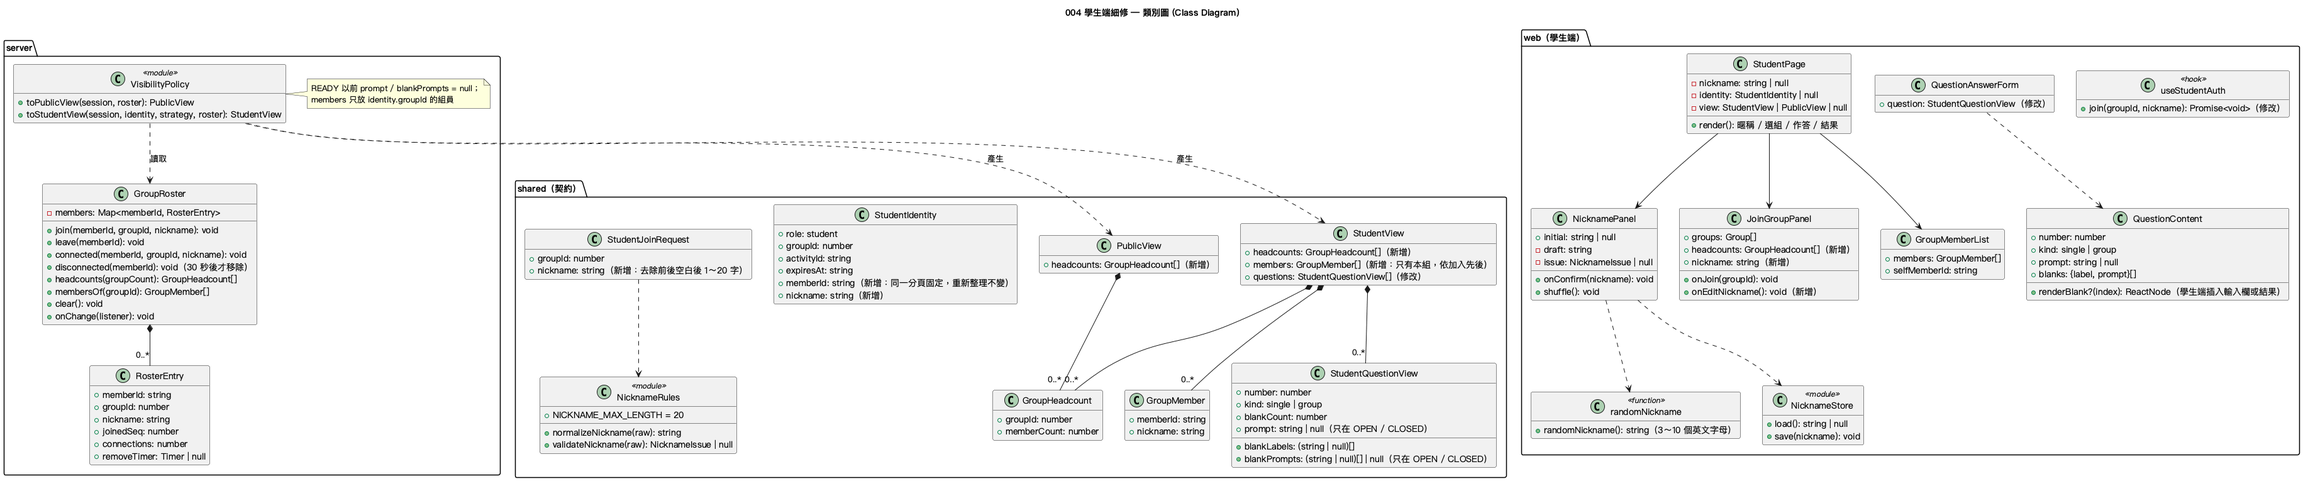
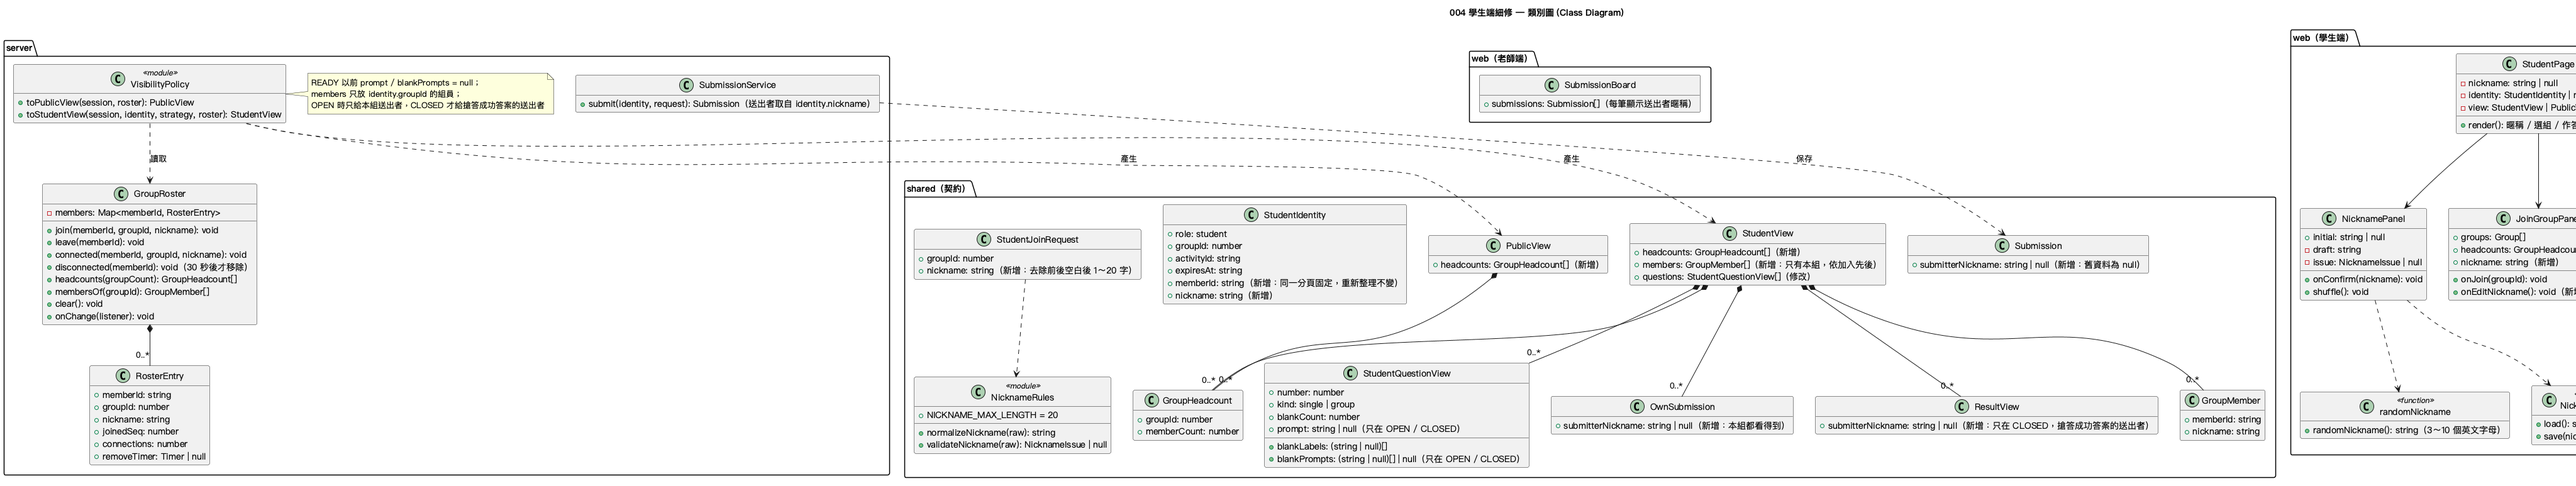
docs(004): record submitter nickname and entry clarifications
Each accepted submission keeps the submitter's nickname: teachers always
see it, group members see their own group's submitters, and other groups
see winning submitters only after the quiz closes. Opening the student URL
directly also starts at the nickname step. Diagrams updated to match.

diff --git a/specs/004-student-side-refinements/spec.md b/specs/004-student-side-refinements/spec.md
@@ -22,12 +22,14 @@
 - 選組畫面在每個組別旁顯示目前已加入的人數
 - 作答與結果畫面顯示本組成員的暱稱與人數
 - 學生端顯示每一題的題目敘述（題組含子題敘述），樣式與老師端題目預覽相同
+- 每筆送出記錄送出者的暱稱，並依角色與活動階段決定誰看得到（老師端的送出列表一併顯示送出者）
 
 **本子功能不包含**：
 
 - 學生帳號、座號、真實姓名或名單管理（暱稱只用來在同組之間辨識，可以重複）
-- 以個人為單位送出或計分（作答單位仍是組別，送出紀錄與匯出不記錄是誰送出）
-- 老師端畫面的變更（老師端不顯示學生暱稱或各組人數）
+- 以個人為單位送出或計分（作答單位仍是組別；送出者暱稱只用來顯示，不影響搶答判定與成績）
+- 老師端顯示各組人數或成員名單（老師端只多顯示每筆送出的送出者暱稱）
+- 匯出到 Guided Notes 的內容變更（匯出仍只寫入答案、組別與時間，不寫入送出者暱稱）
 - 限制每組人數、禁止重複暱稱、過濾不雅暱稱
 - 003 已完成的作答、送出、結果判定規則的變更
 
@@ -41,7 +43,13 @@
   重新整理或 30 秒內重連不重複計算也不短暫消失（FR-012）。
 - Q: 學生加入組別之後，還能不能修改暱稱？ → A: 要先離開組別（只限「待開始」）才能修改；「搶答進行中」與「已結束」時暱稱固定
   （FR-007）。
-- Q: 老師端要不要也看到各組人數或學生暱稱？ → A: 這次不做，老師端畫面不變；需要時由後續子功能再加入（範圍說明）。
+- Q: 老師端要不要也看到各組人數或學生暱稱？ → A: 這次不做，老師端不顯示各組人數與成員名單；需要時由後續子功能再加入
+  （範圍說明）。
+- Q: 同組有人送出某題後，要不要顯示「由誰送出」？ → A: 要記錄送出者暱稱。老師端隨時看得到每筆送出的送出者；學生端同組成員
+  彼此看得到本組每題的送出者；搶答進行中看不到其他組的送出者；搶答結束後，所有人都看得到每題搶答成功答案的送出者
+  （FR-023～FR-026）。
+- Q: 學生不經過首頁、直接打開學生端網址時，也要先到暱稱頁嗎？ → A: 要；只要該分頁還沒有暱稱，不論從哪裡進入學生端都先顯示
+  暱稱頁（FR-001）。
 
 ## User Scenarios & Testing *(mandatory)*
 
@@ -120,6 +128,33 @@
 
 ---
 
+### User Story 4 - 顯示每一題由誰送出 (Priority: P2)
+
+同組學生送出某題後，同組所有成員都看得到是誰送出的；老師端隨時看得到每筆送出的送出者。搶答進行中，學生看不到其他組
+的送出者；搶答結束後，結果畫面的每個搶答成功答案都標出送出者，所有人都看得到。
+
+**Why this priority**: 讓同組成員知道誰已經作答、避免重複作答，也讓老師與全班在結束後知道答案是誰送出的；但沒有這項
+資訊時，以組別為單位的搶答仍可正常進行，所以排在 P2。
+
+**Independent Test**: 第 1 組成員 Milo、Ava 與第 2 組成員 Leo 各開一個分頁。搶答進行中 Milo 送出第 1 題、Leo 送出第 1 題；
+Ava 的畫面顯示第 1 題「已送出（Milo）」，Leo 的畫面看不到 Milo；老師端第 1 題的兩筆送出分別標示 Milo、Leo。結束搶答後，
+三個學生分頁的第 1 題結果都顯示搶答成功答案與送出者「Milo」。
+
+**Acceptance Scenarios**:
+
+1. **Given** 搶答進行中，第 1 組的 Milo 送出第 3 題，**When** 同組的 Ava 檢視第 3 題，**Then** 在 1 秒內顯示「已送出（Milo）」與
+   本組答案。
+2. **Given** 搶答進行中，第 1 組已送出第 3 題，**When** 第 2 組學生檢視畫面，**Then** 看不到第 1 組的送出者，收到的資料也不包含。
+3. **Given** 任一階段有組別送出，**When** 老師檢視送出列表，**Then** 每筆送出都顯示組別、送出時間與送出者暱稱。
+4. **Given** 搶答已結束，第 3 題由第 1 組的 Milo 搶答成功，**When** 任一組的學生檢視結果，**Then** 第 3 題的搶答成功答案旁顯示
+   送出者「Milo」。
+5. **Given** 第 2 組的 Leo 也送出第 3 題但未搶到，**When** 第 2 組學生檢視結果，**Then** 第 3 題同時顯示本組答案（Leo 送出）與
+   搶答成功答案（Milo 送出）。
+6. **Given** Milo 送出後離開組別或關閉分頁，**When** 其他人檢視該題，**Then** 仍顯示送出者「Milo」。
+7. **Given** 老師匯出結果到 Guided Notes，**When** 檢視匯出的文件，**Then** 內容與 003 相同，不含送出者暱稱。
+
+---
+
 ### Edge Cases
 
 - 學生沒有修改預設暱稱就確認：以預設的隨機名字作為暱稱。
@@ -137,6 +172,9 @@
 - 老師尚未匯入題目：003 的「老師尚未匯入題目，請稍候」不變；暱稱頁仍可先完成，確認後再等待老師匯入。
 - 已取得老師身分的分頁打開學生端：003 FR-008 不變，不顯示暱稱頁與作答功能。
 - 題目敘述很長或含多行：完整顯示並保留換行，不截斷。
+- 本子功能上線前已保存的送出紀錄沒有送出者：老師端與學生端顯示該筆送出時不顯示送出者，其他內容照常顯示。
+- 同組兩位暱稱相同的學生分別送出不同題：都顯示同一個暱稱，不另外區分。
+- 送出被拒絕（例如本組已送出、搶答已結束）：不記錄送出者，畫面顯示的是先前被採計那一筆的送出者。
 
 ## Requirements *(mandatory)*
 
@@ -144,8 +182,8 @@
 
 **暱稱**
 
-- **FR-001**: 學生從首頁進入學生端時，MUST 先顯示暱稱頁，確認暱稱後才進入選組畫面；該分頁已有暱稱時直接進入
-  選組或目前的組別畫面。
+- **FR-001**: 學生進入學生端時（從首頁按下「學生端」或直接打開學生端網址），只要該分頁還沒有暱稱，MUST 先顯示暱稱頁，
+  確認暱稱後才進入選組畫面；該分頁已有暱稱時直接進入選組或目前的組別畫面。
 - **FR-002**: 暱稱頁的輸入欄 MUST 預填一個系統隨機產生的短英文名字（只含英文字母、長度 3～10 字，例如「Milo」）。
 - **FR-003**: 暱稱頁 MUST 提供「換一個」，每次按下以另一個隨機短英文名字取代輸入欄內容。
 - **FR-004**: 學生 MUST 能自行修改暱稱；暱稱去除前後空白後 MUST 為 1～20 字（以實際字元計算），不符合時 MUST
@@ -166,7 +204,8 @@
 - **FR-012**: 「在組內」的計算：學生加入組別後即算在組內；學生離開組別、身分失效，或分頁斷線超過 30 秒後 MUST 從組內
   移除。同一分頁重新整理或在 30 秒內重新連線 MUST 視為同一位成員，MUST NOT 重複計算。
 - **FR-013**: 伺服器重新啟動後，學生分頁重新連線時 MUST 以原本的暱稱與組別回到成員名單，不需學生重新操作。
-- **FR-014**: 學生端 MUST 只能看到各組的人數與本組成員的暱稱；MUST NOT 收到其他組成員的暱稱。
+- **FR-014**: 學生端 MUST 只能看到各組的人數與本組的成員名單；MUST NOT 收到其他組的成員名單。其他組學生的暱稱只會以
+  搶答結束後的送出者出現（FR-025）。
 - **FR-015**: 老師開始新的活動時，各組人數與成員名單 MUST 清空，從學生重新選組後重新計算。
 
 **題目敘述**
@@ -182,16 +221,27 @@
 
 **沿用與錯誤處理**
 
-- **FR-020**: 003 的作答、送出、可見性與結果規則 MUST 維持不變；暱稱與成員名單 MUST NOT 寫入送出紀錄、結果或匯出的
-  Guided Notes。
+- **FR-020**: 003 的作答、送出、可見性與結果判定規則 MUST 維持不變；送出者暱稱只用於顯示，MUST NOT 影響順位、搶答成功
+  組別或本組成績；成員名單 MUST NOT 寫入送出紀錄、結果或匯出的 Guided Notes。
 - **FR-021**: 學生端所有新增訊息 MUST 使用繁體中文、讓學生看得懂，MUST NOT 顯示堆疊或內部細節。
 - **FR-022**: 系統紀錄 MUST 記錄學生加入與離開組別的事件，但 MUST NOT 記錄暱稱內容。
 
+**送出者**
+
+- **FR-023**: 每筆被採計的送出 MUST 記錄送出者當時的暱稱，與送出內容一起保存；伺服器重新啟動後 MUST 仍保留。送出者暱稱
+  MUST 以伺服器記錄的學生身分為準，MUST NOT 採用請求中另外附帶的名字（constitution 原則 I）。
+- **FR-024**: 學生端 MUST 在本組每一題「已送出」處顯示送出者暱稱（例如「已送出（Milo）」），同組所有分頁都看得到；
+  送出者學生之後離開組別或關閉分頁，該題仍顯示原本的送出者暱稱。
+- **FR-025**: 搶答結束前，學生端 MUST NOT 收到其他組別的送出者暱稱；搶答結束後，結果畫面 MUST 在每題的搶答成功答案旁顯示
+  送出者暱稱，所有學生都看得到。本組「已送出，未搶到」的題目同時顯示本組送出者與搶答成功答案的送出者。
+- **FR-026**: 老師端的送出列表與結果 MUST 在任何階段顯示每筆送出的送出者暱稱；送出者暱稱 MUST NOT 寫入匯出的 Guided Notes。
+
 ### Key Entities *(include if feature involves data)*
 
-- **暱稱 (Nickname)**：學生在分頁上使用的顯示名稱，1～20 字，可重複；只用來在同組之間辨識，不代表真實身分。
+- **暱稱 (Nickname)**：學生在分頁上使用的顯示名稱，1～20 字，可重複；用來辨識組員與送出者，不代表真實身分。
 - **組員 (GroupMember)**：某一組中目前在組內的一個學生分頁，包含暱稱與加入先後；同一分頁重新整理仍是同一位組員。
 - **組別人數 (GroupHeadcount)**：每個組別目前的組員數，所有學生端都可看到。
+- **送出者 (Submitter)**：被採計的送出附帶的送出者暱稱，與送出內容一起保存；可見範圍依角色與活動階段而定（FR-024～FR-026）。
 - **題目內容 (QuestionContent)**：題目敘述、題組說明與子題敘述（沿用 002 老師端的題目資料），搶答開始後才提供給已加入
   組別的學生。
 
@@ -204,10 +254,12 @@
 - **SC-003**: 學生加入或離開組別後，其他學生分頁的組別人數與成員名單 100% 在 1 秒內更新。
 - **SC-004**: 學生分頁重新整理 20 次，該組人數始終正確，沒有重複計算或短暫歸零。
 - **SC-005**: 關閉學生分頁後，該學生 100% 在 30 秒內從成員名單與人數中移除。
-- **SC-006**: 自動化測試檢查學生端收到的所有資料：「待開始」前題目敘述出現次數為 0；其他組成員的暱稱出現次數為 0；
+- **SC-006**: 自動化測試檢查學生端收到的所有資料：「待開始」前題目敘述出現次數為 0；其他組的成員名單出現次數為 0；
   未選組分頁收到的題目敘述出現次數為 0。
 - **SC-007**: 「搶答進行中」時，學生端每一題的題目敘述與老師端預覽的文字 100% 一致。
-- **SC-008**: 用「單題範例」與「題組範例」各跑一次，老師與兩組各兩位學生完成「暱稱 → 加入 → 作答 → 結束 → 檢視結果」
+- **SC-008**: 自動化測試檢查學生端收到的所有資料：搶答結束前其他組的送出者暱稱出現次數為 0；結束後每題搶答成功答案的
+  送出者 100% 與老師端一致；匯出的 Guided Notes 中送出者暱稱出現次數為 0。
+- **SC-009**: 用「單題範例」與「題組範例」各跑一次，老師與兩組各兩位學生完成「暱稱 → 加入 → 作答 → 結束 → 檢視結果」
   的完整流程，每次在 5 分鐘內完成，003 的人工驗證步驟仍全部通過。
 
 ## Assumptions

diff --git a/specs/004-student-side-refinements/checklists/requirements.md b/specs/004-student-side-refinements/checklists/requirements.md
@@ -33,4 +33,6 @@
 
 - `/speckit-clarify`（2026-11-24）確認了題目敘述顯示時機、組內計算方式、修改暱稱的時機與老師端範圍，已寫入 spec
   的 Clarifications 與對應需求。
+- 第二次 `/speckit-clarify`（2026-11-24）新增送出者暱稱（US4、FR-023～FR-026、SC-008）與直接開啟學生端網址也先到暱稱頁
+  （FR-001）；老師端因此會多顯示送出者暱稱。
 - 隨機英文名字的產生方式（採用哪個套件或名字清單）屬於實作選擇，留到 plan 階段決定。
